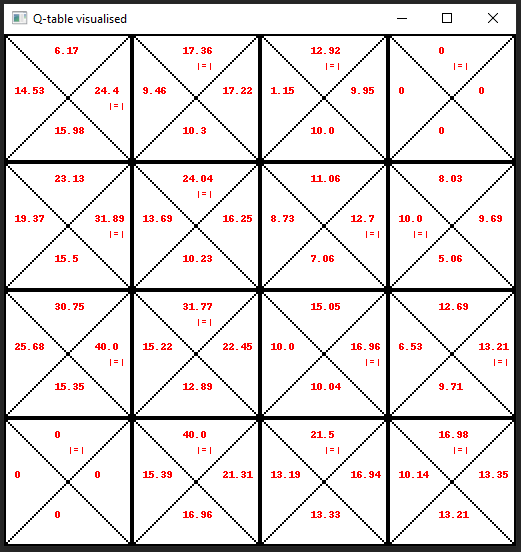
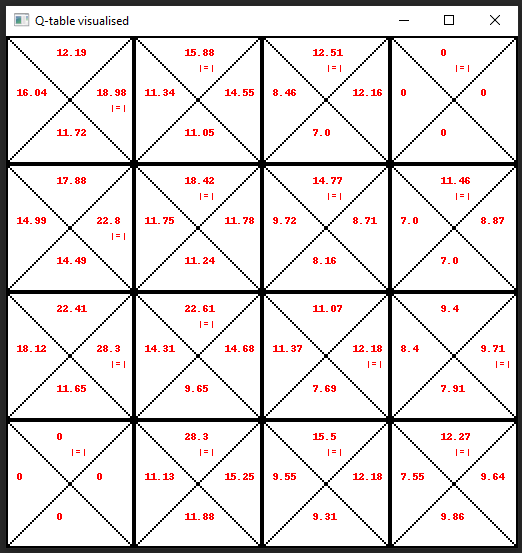
Corrected algorithm and updated outcome pictures

diff --git a/modelfree_prediction/code_for_implementation/on_policy_first_visit_mc_control.py b/modelfree_prediction/code_for_implementation/on_policy_first_visit_mc_control.py
@@ -120,12 +120,18 @@ def on_policy_first_visit_mc_control(environment,
             if not state_info in [x[0] for x in inverted_episode_log[index + 1:]]:
 
                 dict_of_states[step_info[0]]['rewards'][action_info].append(big_g)
-                dict_of_states[step_info[0]]['average'][action_info] = np.average(dict_of_states[state_info]['rewards'][action_info])
-                environment.agent.policy.q_table[state_info[0]][state_info[1]][action_info] = dict_of_states[step_info[0]]['average'][action_info]
+                dict_of_states[step_info[0]]['average'][action_info] = np.average(
+                    dict_of_states[state_info]['rewards'][action_info])
 
-                # A_star = (step_info[0], np.argmax(dict_of_states[step_info[0]]['average']))
-                # print(A_star)
+                A_star = (step_info[0], np.argmax(dict_of_states[step_info[0]]['average']))
 
-    # print(environment.agent.policy.q_table)
-    # return environment.agent.policy.value_matrix
+                for action_index, every_a in enumerate(dict_of_states[step_info[0]]['average']):
+                    if index == A_star[1]:
+                        dict_of_states[step_info[0]]['average'][action_index] = 1 - epsilon + epsilon * dict_of_states[step_info[0]]['average'][action_index]
+                    else:
+                        dict_of_states[step_info[0]]['average'][action_index] = epsilon * dict_of_states[step_info[0]]['average'][action_index]
+
+                environment.agent.policy.q_table[state_info[0]][state_info[1]][action_info] = \
+                    dict_of_states[step_info[0]]['average'][action_info]
+
     return environment.agent.policy.visualise_q_table()

diff --git a/modelfree_prediction/code_for_implementation/simulator.py b/modelfree_prediction/code_for_implementation/simulator.py
@@ -16,7 +16,9 @@ import os
 if __name__ == "__main__":
     if len(sys.argv) >= 2:
         path = os.getcwd()
-        os.chdir('modelfree_prediction\code_for_implementation')
+        print(path)
+        if 'modelfree_prediction\code_for_implementation' not in path:
+            os.chdir('modelfree_prediction\code_for_implementation')
 
     # Creating environment
     policy_pr = PureRandomPolicy()
@@ -132,8 +134,8 @@ if __name__ == "__main__":
             # print(a3.policy.value_matrix)
 
             iterations = 50000
-            # discount_rate = 1
-            discount_rate = 0.9
+            discount_rate = 1
+            # discount_rate = 0.9
             exploring_starts = False
             epsilon = 0.7
             print(
